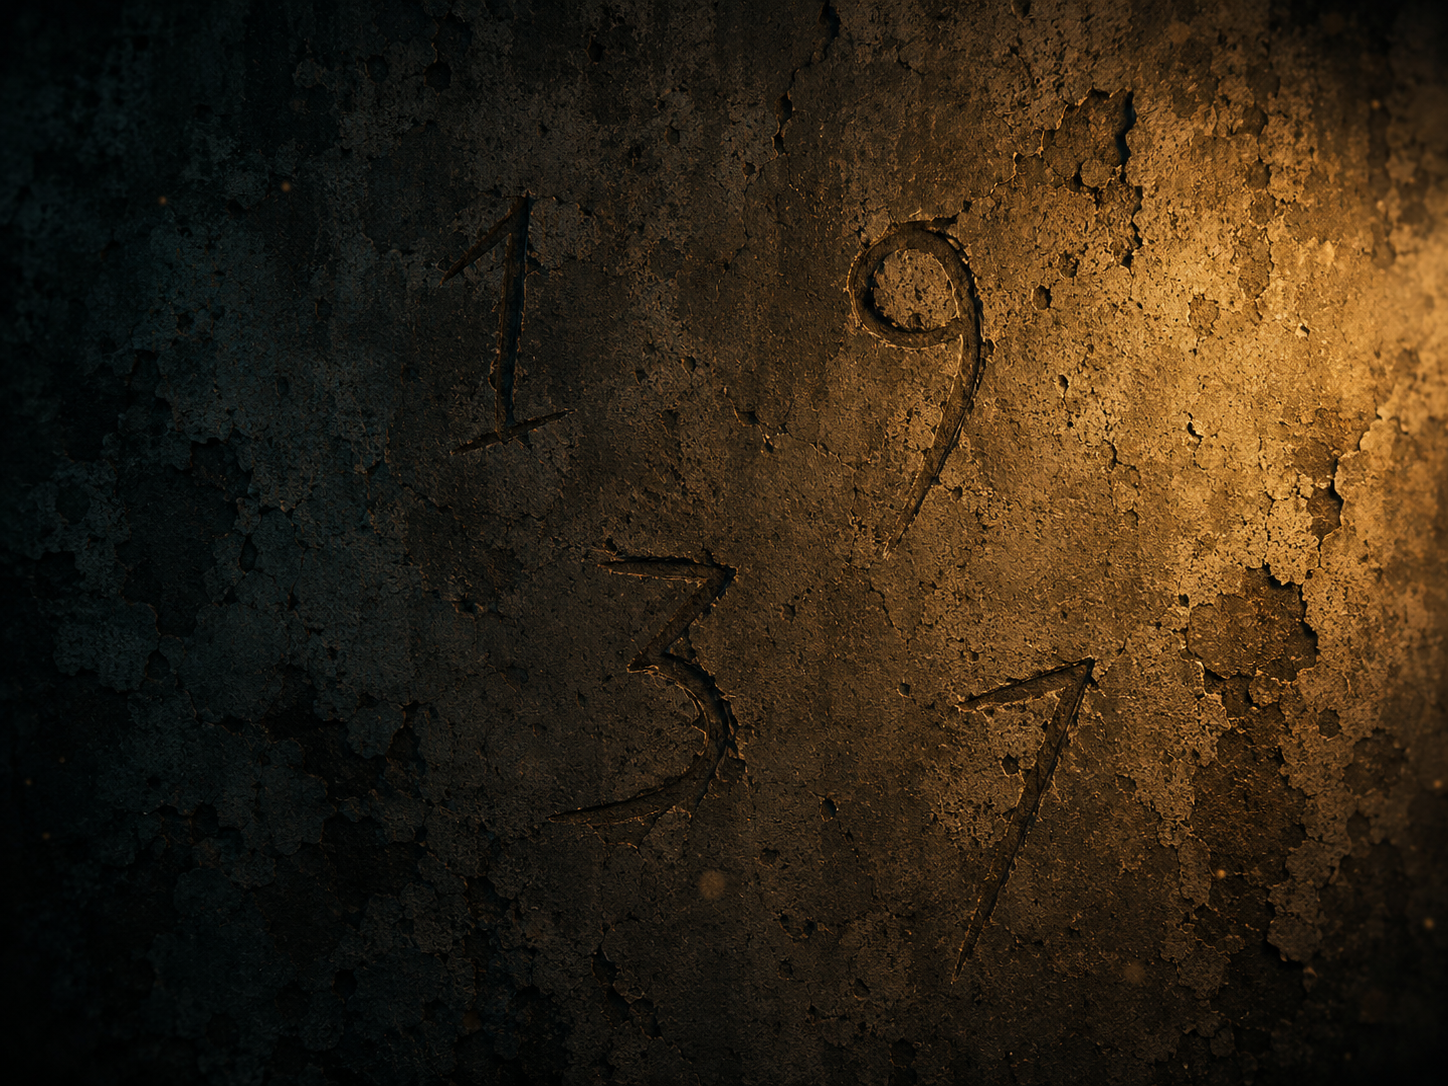
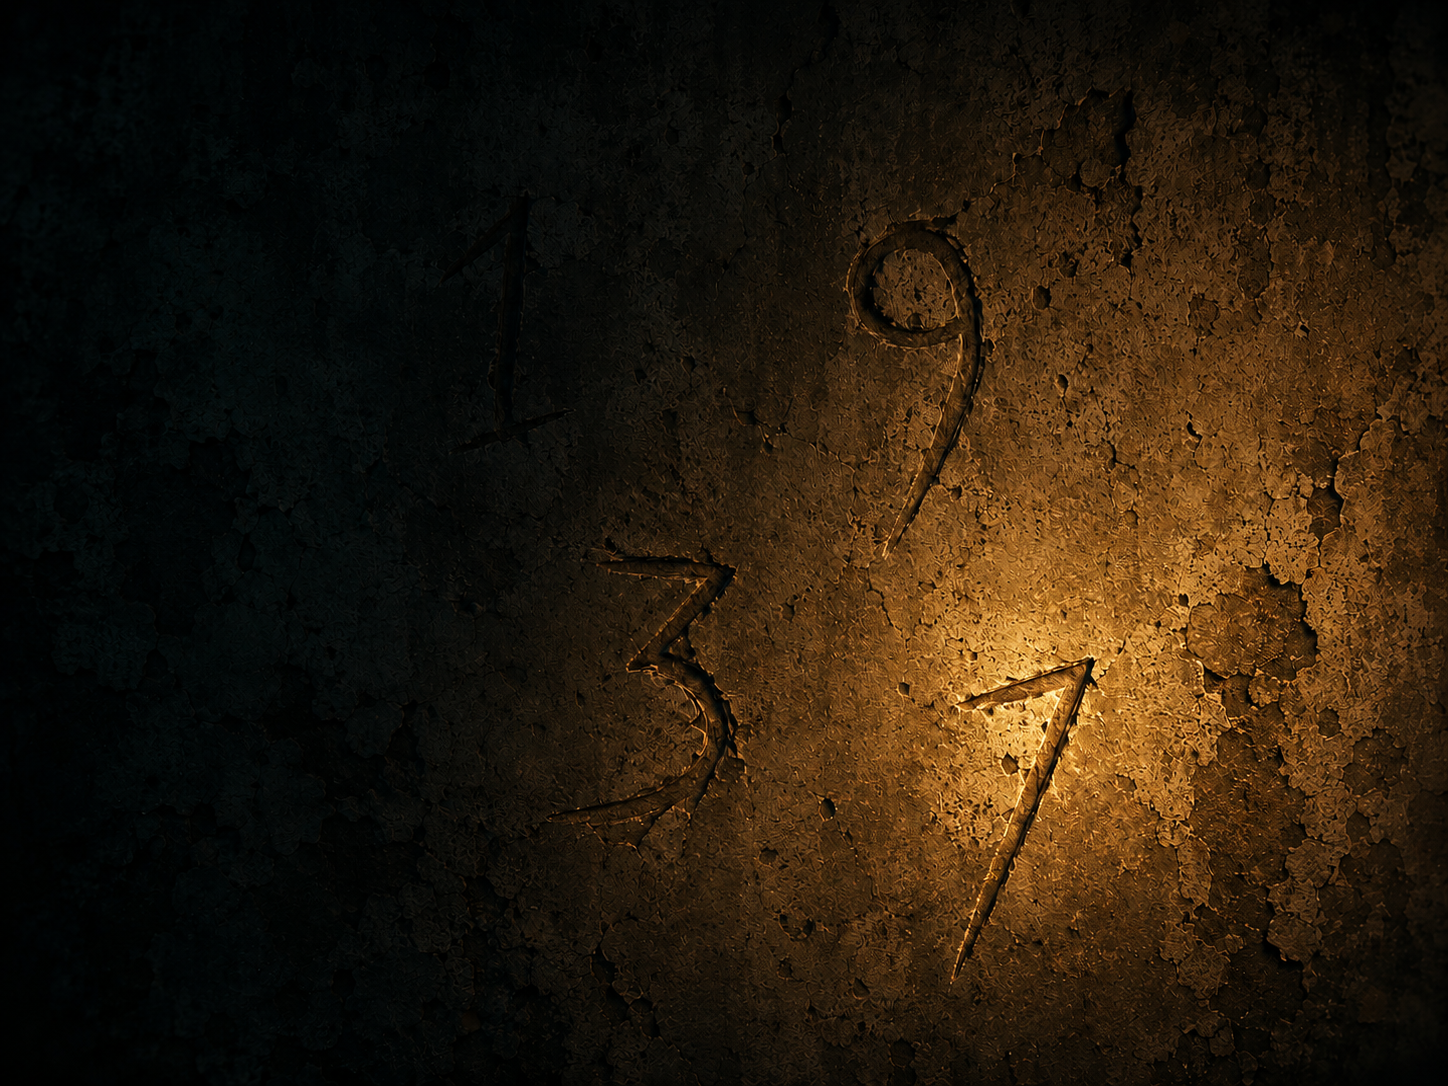
换墙上刻痕新图+统一线索文案为「从亮到暗读」消除歧义
旧图最亮的是9与密码7931开头矛盾;新图最亮光斑压在7上,亮度与左右位置同向→7931自洽

diff --git a/docs/game.js b/docs/game.js
@@ -14,7 +14,7 @@ const ITEMS = {
   wall: {
     name: "墙上刻痕", x: 530, y: 105, w: 310, h: 300,
     img: OBJ + "wall_scratches.jpg", clue: "wall",
-    desc: "有人用利器在墙上深深刻下四个数字，比墙面那些褪色的旧编号清晰得多。\n\n可它们歪歪斜斜地散落着，看不出先后顺序。\n\n纸条说过——「光知道方向」。也许该顺着灯光扫过的方向来读？"
+    desc: "有人用利器在墙上刻下四个数字，散落在墙面各处。\n\n台灯的光斜照过来，最亮的那个数字清晰刺眼，越往黑暗里去越模糊难辨。\n\n纸条说过——「光知道方向」。也许，该从最亮的那个开始，顺着光一路读进黑暗里？"
   },
   desk: {
     name: "桌子", x: 415, y: 425, w: 355, h: 210,
@@ -24,7 +24,7 @@ const ITEMS = {
   lamp: {
     name: "台灯", x: 475, y: 275, w: 100, h: 155,
     img: OBJ + "lamp.jpg", clue: "lamp",
-    desc: "你拨亮了台灯。\n\n暖黄的光从右侧打来，斜斜扫过整面墙，再没入左边的黑暗——光，是从右往左走的。\n\n墙上那些刻痕，会不会也该顺着光，从右往左读？"
+    desc: "你拨亮了台灯。\n\n暖黄的光斜斜打在墙上，烧出一片最亮的光斑，再渐渐没入另一头的黑暗。\n\n墙上那些刻痕——会不会该从最亮的那个开始，顺着光一路读进黑暗里？"
   },
   bed: {
     name: "床铺", x: 805, y: 380, w: 370, h: 320,
@@ -243,7 +243,7 @@ function confirmCode() {
     state.input = ""; renderDigits();
     kpHint.classList.add("err");
     kpHint.textContent = state.wrong >= 3
-      ? "提示：顺着灯光的方向，从右往左读墙上的四个刻痕"
+      ? "提示：从墙上最亮的那个数字开始，顺着光一路读进黑暗"
       : "密码错误。再看看墙上的刻痕和灯光的方向";
   }
 }